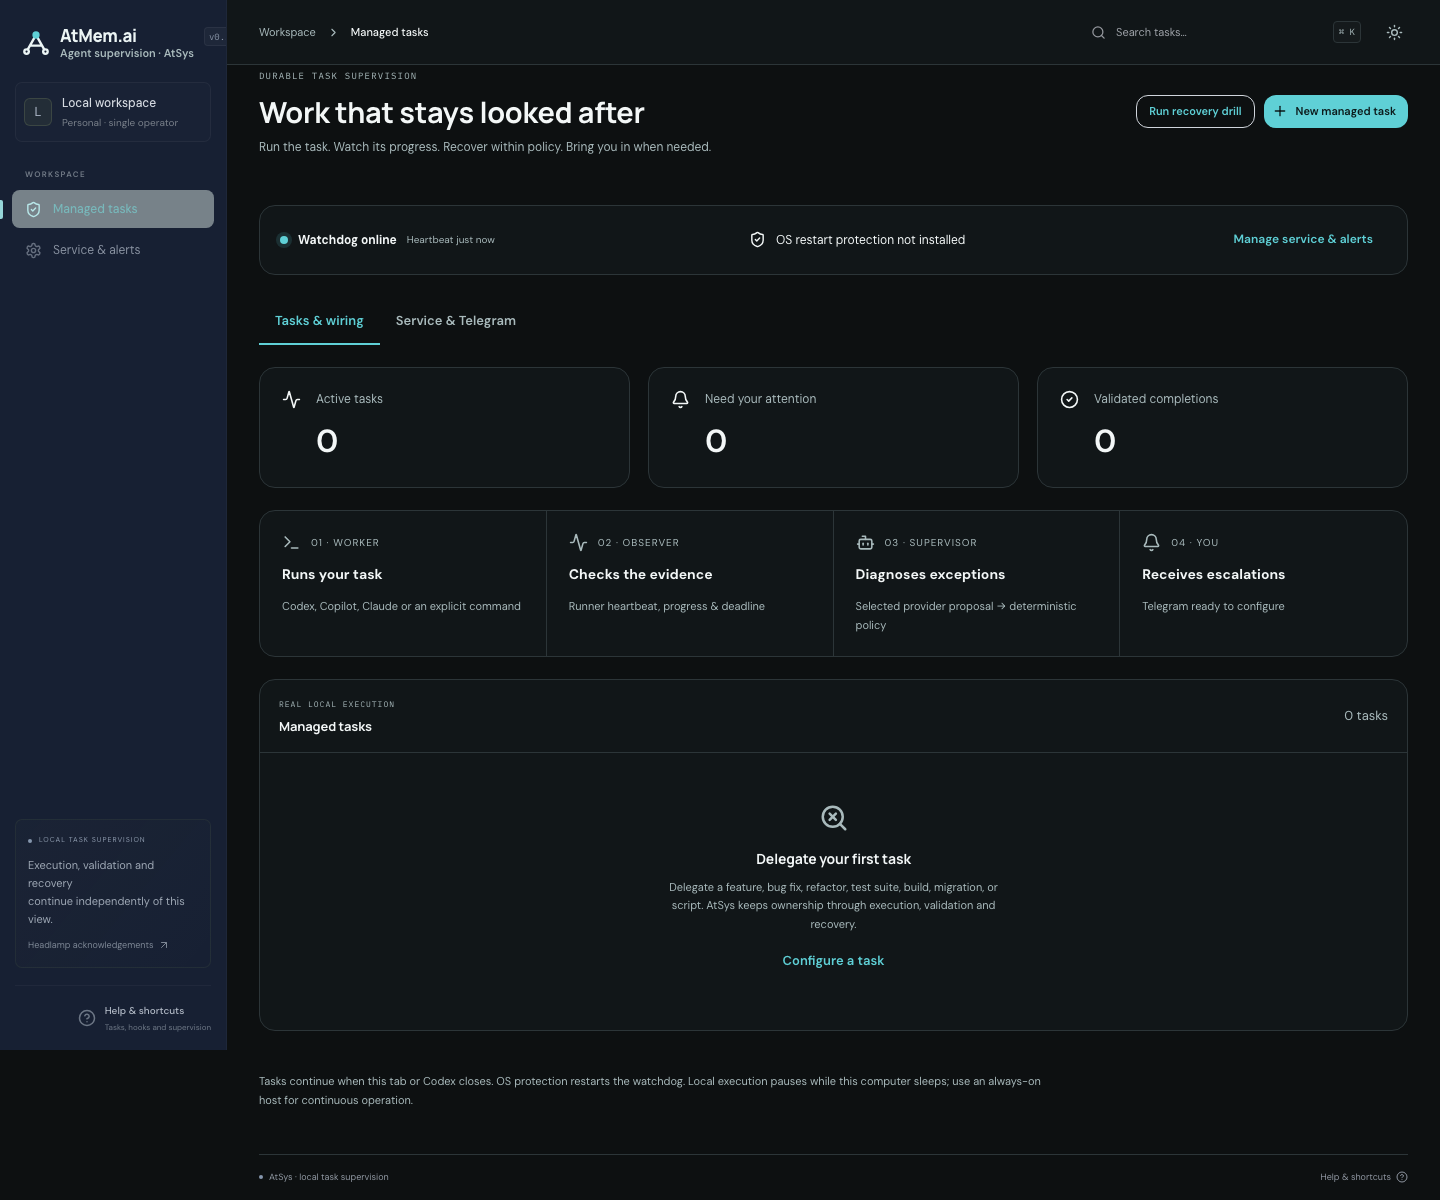
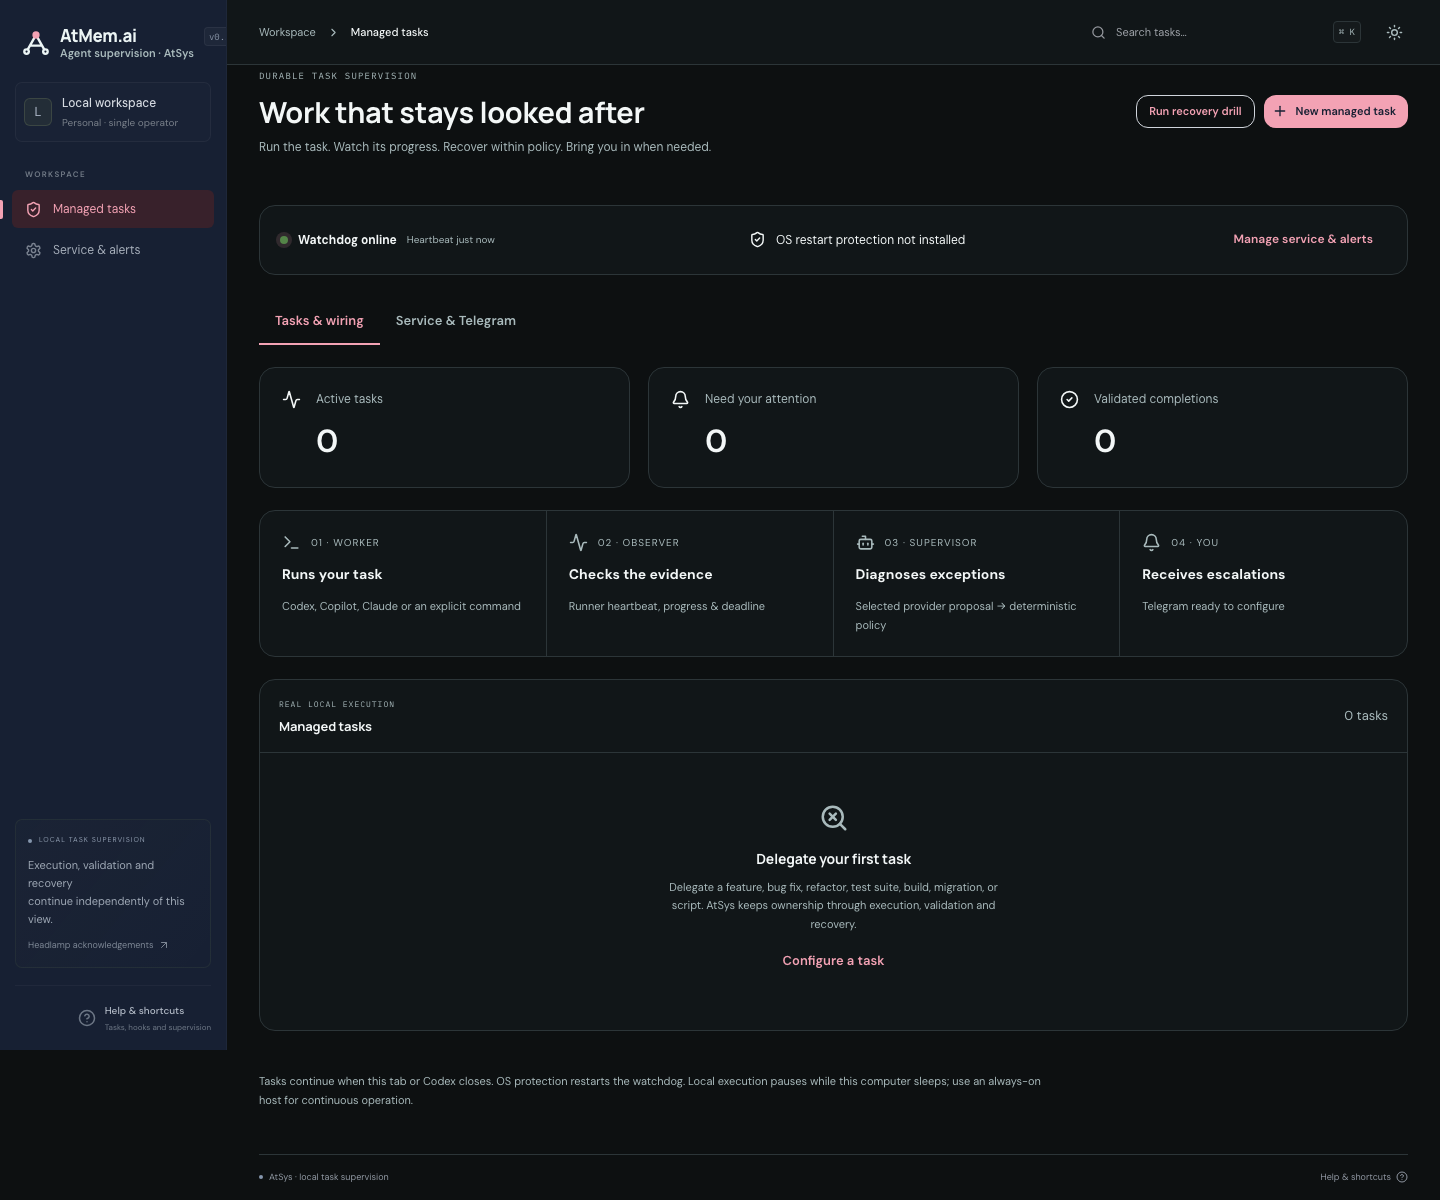
release: AtSys 0.3.4 with consistent pink branding

diff --git a/src/styles.css b/src/styles.css
@@ -13,9 +13,9 @@
   --ink: #172033;
   --muted: #5f6a7c;
   --line: #e1e7ef;
-  --subtle: #f2f8f6;
-  --accent: #1f777c;
-  --green: #1f777c;
+  --subtle: #fdf4f7;
+  --accent: #8b3650;
+  --green: #8b3650;
   --sidebar: #172033;
   --shadow: 0 1px 2px rgba(23, 32, 51, 0.04), 0 8px 24px rgba(23, 32, 51, 0.05);
   --mono: 'IBM Plex Mono', ui-monospace, SFMono-Regular, monospace;
@@ -27,8 +27,8 @@
   --muted: #a9babc;
   --line: #2c3538;
   --subtle: #151a1c;
-  --accent: #5fd0d6;
-  --green: #5fd0d6;
+  --accent: #f3a2b4;
+  --green: #f3a2b4;
   --shadow: none;
   color-scheme: dark;
 }
@@ -297,12 +297,12 @@ select option {
 }
 .nav-group a:hover,
 .settings-link:hover {
-  background: #ffffff06;
-  color: #e7f1f2;
+  background: #38212b;
+  color: #f8bdcc;
 }
 .nav-group a.active {
-  background: #ccdbaa12;
-  color: #b9e8ea;
+  background: #38212b;
+  color: #F3A2B4;
 }
 .nav-group a.active:before {
   content: '';
@@ -310,11 +310,11 @@ select option {
   left: -12px;
   width: 3px;
   height: 19px;
-  background: #95d5d8;
+  background: #F3A2B4;
   border-radius: 0 2px 2px 0;
 }
 .nav-group a.active svg {
-  color: #b8e7e9;
+  color: #F3A2B4;
   opacity: 1;
 }
 .nav-count {
@@ -322,8 +322,8 @@ select option {
   font-family: var(--mono);
   font-size: 9px;
   font-weight: 500;
-  background: #a5be7229;
-  color: #a2d5d8;
+  background: #38212b;
+  color: #F3A2B4;
   padding: 2px 6px;
   border-radius: 4px;
   min-width: 19px;
@@ -4180,7 +4180,7 @@ h4 {
   border-right-color: transparent;
 }
 .ops-dot.healthy {
-  background: var(--accent);
+  background: #548548;
   box-shadow: 0 0 0 4px color-mix(in srgb, var(--accent) 14%, transparent);
 }
 :root:not([data-theme='dark']) {
@@ -4227,7 +4227,7 @@ h4 {
   border-radius: 12px;
 }
 :root:not([data-theme='dark']) .workspace-avatar {
-  background: #e8f5f2;
+  background: #fcecf1;
   color: var(--accent);
   border-color: transparent;
 }
@@ -4247,7 +4247,7 @@ h4 {
 }
 :root:not([data-theme='dark']) .nav-group a.active,
 :root:not([data-theme='dark']) .settings-link.active {
-  background: #e8f5f2;
+  background: #fcecf1;
   color: var(--accent);
   font-weight: 600;
 }
@@ -4258,7 +4258,7 @@ h4 {
   background: var(--accent);
 }
 :root:not([data-theme='dark']) .nav-count {
-  background: #e8f5f2;
+  background: #fcecf1;
   color: var(--accent);
 }
 :root:not([data-theme='dark']) .local-note {
@@ -4273,7 +4273,7 @@ h4 {
   border-top-color: var(--line);
 }
 :root:not([data-theme='dark']) .operator-avatar {
-  background: #e8f5f2;
+  background: #fcecf1;
   color: var(--accent);
   border-color: #ffffff;
 }
@@ -4293,10 +4293,10 @@ h4 {
   color: currentColor;
 }
 .atmem-dot {
-  fill: #5fd0d6;
+  fill: #f3a2b4;
 }
 :root:not([data-theme='dark']) .atmem-dot {
-  fill: #1f777c;
+  fill: #f3a2b4;
 }
 .sidebar .brand > .brand-text:nth-child(2) > span {
   display: block;

diff --git a/tests/e2e/console.spec.ts b/tests/e2e/console.spec.ts
@@ -31,12 +31,18 @@ test('product navigation exposes operational tasks and settings at desktop and m
 });
 test('task search, theme and help controls work and persist', async ({ page }, info) => {
   await page.goto('/');
+  await expect(page.locator('.atmem-dot').first()).toHaveCSS('fill', 'rgb(243, 162, 180)');
   await page.getByLabel('Search managed tasks').fill('no task can have this unusual name');
   await expect(page.getByRole('heading', { name: 'No matching tasks' })).toBeVisible();
   await page.getByLabel('Search managed tasks').fill('');
   await page.getByRole('button', { name: 'Use dark theme' }).click();
   await page.reload();
   await expect(page.getByRole('button', { name: 'Use light theme' })).toBeVisible();
+  await expect(page.locator('.atmem-dot').first()).toHaveCSS('fill', 'rgb(243, 162, 180)');
+  await page.screenshot({
+    path: `test-results/pink-dark-${info.project.name}.png`,
+    fullPage: true,
+  });
   if (info.project.name === 'desktop')
     await page.screenshot({ path: 'docs/screenshots/tasks-dark.png', fullPage: true });
   await page.getByRole('button', { name: 'Use light theme' }).click();

diff --git a/src/theme.ts b/src/theme.ts
@@ -3,7 +3,7 @@ export const makeTheme = (dark: boolean) =>
   createTheme({
     palette: {
       mode: dark ? 'dark' : 'light',
-      primary: { main: dark ? '#5fd0d6' : '#1f777c' },
+      primary: { main: dark ? '#F3A2B4' : '#8b3650' },
       success: { main: '#548548' },
       warning: { main: '#ac7b27' },
       error: { main: '#be5550' },
@@ -20,7 +20,14 @@ export const makeTheme = (dark: boolean) =>
     components: {
       MuiButton: {
         defaultProps: { disableElevation: true },
-        styleOverrides: { root: { borderRadius: 12, minHeight: 36, padding: '7px 14px' } },
+        styleOverrides: {
+          root: { borderRadius: 12, minHeight: 36, padding: '7px 14px' },
+          containedPrimary: {
+            backgroundColor: '#F3A2B4',
+            color: '#172033',
+            '&:hover': { backgroundColor: '#f8bdcc' },
+          },
+        },
       },
       MuiDialog: { styleOverrides: { paper: { backgroundImage: 'none' } } },
       MuiDrawer: { styleOverrides: { paper: { backgroundImage: 'none' } } },

diff --git a/python/atsys/__init__.py b/python/atsys/__init__.py
@@ -1,2 +1,2 @@
 """AtSys: installed command and bundled task supervision runtime."""
-__version__ = "0.3.3"
+__version__ = "0.3.4"

diff --git a/docs/PACKAGING.md b/docs/PACKAGING.md
@@ -4,26 +4,26 @@ The wheel packages this checkout's operational runtime and web dashboard. It pre
 
 ## Capacity fallback
 
-AtSys 0.3.3 includes opt-in capacity fallback and the AtMem.ai dashboard theme. See [release notes](releases/v0.3.3.md) for configuration and limitations.
+AtSys 0.3.4 includes opt-in capacity fallback and the AtMem.ai dashboard theme. See [release notes](releases/v0.3.4.md) for configuration and limitations.
 
 ## Install the published release
 
-The stable provider release is installed with `python -m pip install --upgrade atsys==0.3.3`. See [release notes](releases/v0.3.3.md). Pause requires the upgraded watchdog and newly launched runners; older active runners can still be stopped.
+The stable provider release is installed with `python -m pip install --upgrade atsys==0.3.4`. See [release notes](releases/v0.3.4.md). Pause requires the upgraded watchdog and newly launched runners; older active runners can still be stopped.
 
 ```sh
-python -m pip install --upgrade atsys==0.3.3
+python -m pip install --upgrade atsys==0.3.4
 cd /path/to/your/project
 atsys init
 ```
 
-See [0.3.3 release notes](releases/v0.3.3.md), [PyPI](https://pypi.org/project/atsys/0.3.3/) and [GitHub release assets](https://github.com/aetna000/atsys/releases/tag/v0.3.3). Publication is complete only after the tag workflow and registry checks succeed. The historical [0.2.0 workflow](https://github.com/aetna000/atsys/actions/runs/40031931023) established the Trusted Publishing setup; its recorded artifact hashes apply only to that older release.
+See [0.3.4 release notes](releases/v0.3.4.md), [PyPI](https://pypi.org/project/atsys/0.3.4/) and [GitHub release assets](https://github.com/aetna000/atsys/releases/tag/v0.3.4). Publication is complete only after the tag workflow and registry checks succeed. The historical [0.2.0 workflow](https://github.com/aetna000/atsys/actions/runs/40031931023) established the Trusted Publishing setup; its recorded artifact hashes apply only to that older release.
 
 ## Use a downloaded or locally built release
 
 ```sh
-pip install /absolute/path/to/release/atsys-0.3.3-py3-none-any.whl
+pip install /absolute/path/to/release/atsys-0.3.4-py3-none-any.whl
 # Alternatively, isolate the command with pipx or uv:
-uv tool install /absolute/path/to/release/atsys-0.3.3-py3-none-any.whl
+uv tool install /absolute/path/to/release/atsys-0.3.4-py3-none-any.whl
 cd /path/to/existing/git/repository
 atsys init
 ```
@@ -63,7 +63,7 @@ python -m pip install build twine
 python -m build --outdir release
 python -m twine check release/*
 python -m venv /tmp/atsys-wheel-test
-/tmp/atsys-wheel-test/bin/pip install release/atsys-0.3.3-py3-none-any.whl
+/tmp/atsys-wheel-test/bin/pip install release/atsys-0.3.4-py3-none-any.whl
 /tmp/atsys-wheel-test/bin/python tests/packaging/test_install.py -v
 ```
 

diff --git a/README.md b/README.md
@@ -11,7 +11,7 @@ The benchmark failure motivated this project; benchmarks are not its domain mode
 Install the Python release (Python 3.10+):
 
 ```sh
-python -m pip install --upgrade atsys==0.3.3
+python -m pip install --upgrade atsys==0.3.4
 cd /path/to/your/project
 atsys init
 ```
@@ -26,14 +26,14 @@ The packaged skill handles repository inspection, planning, task configuration, 
 
 `atsys init` installs the project skill, starts the macOS watchdog service and launches the bundled dashboard. `atsys ui` opens it again; `atsys task list` shows managed work. The dashboard starts at **http://127.0.0.1:4310**, choosing another free port if a different instance is there. Always use the reported URL. Installed state lives in `~/.local/share/atsys`, independent of the package and repository. `ATSYS_DATA_DIR` overrides it.
 
-The wheel includes the backend and dashboard; its Python dependency supplies Node 24. No npm or source checkout is required at runtime. Codex CLI and its existing login are needed for Codex workers, supervisors and repairs. See [AtSys 0.3.3 on PyPI](https://pypi.org/project/atsys/0.3.3/), the [GitHub release](https://github.com/aetna000/atsys/releases/tag/v0.3.3) and [release notes](docs/releases/v0.3.3.md). See [packaging, verification and release instructions](docs/PACKAGING.md).
+The wheel includes the backend and dashboard; its Python dependency supplies Node 24. No npm or source checkout is required at runtime. Codex CLI and its existing login are needed for Codex workers, supervisors and repairs. See [AtSys 0.3.4 on PyPI](https://pypi.org/project/atsys/0.3.4/), the [GitHub release](https://github.com/aetna000/atsys/releases/tag/v0.3.4) and [release notes](docs/releases/v0.3.4.md). See [packaging, verification and release instructions](docs/PACKAGING.md).
 
-## New in 0.3.3
+## New in 0.3.4
 
 The dashboard adopts the AtMem.ai Architecture Canvas look: the AtMem.ai mark
 and "Agent supervision" name, softer surfaces and a light sidebar. It opens in
 the light theme; dark mode is a saved choice. Supervision behavior is unchanged.
-See the [release notes](docs/releases/v0.3.3.md).
+See the [release notes](docs/releases/v0.3.4.md).
 
 ## New in 0.3.2
 

diff --git a/docs/releases/v0.3.4.md b/docs/releases/v0.3.4.md
@@ -1,0 +1,14 @@
+# AtSys 0.3.4
+
+The dashboard now matches AtMem.ai’s pink branding. The existing AtMem logo keeps its artwork, with a #F3A2B4 dot in both light and dark mode. Pink navigation, focus and hover accents use darker rose for readable text. Success, warning and error indicators keep their meanings.
+
+## Install or upgrade
+
+```sh
+python -m pip install --upgrade atsys==0.3.4
+atsys --version
+```
+
+Let active work finish, stop services you own, upgrade and reopen the dashboard. Preserve the existing data directory; no schema migration or configuration change is required. This release changes appearance only, not authentication, collection, supervision or provider behavior. Existing platform and runtime requirements still apply.
+
+Node 24 is supplied by the Python package. macOS/Linux supervision is supported; Windows remains unsupported. Do not replace a watchdog while tasks are running.

diff --git a/python/README.md b/python/README.md
@@ -3,7 +3,7 @@
 Installable supervision for general coding work: features, bug fixes, refactors, tests, builds, migrations and scripts.
 
 ```sh
-pip install --upgrade atsys==0.3.3
+pip install --upgrade atsys==0.3.4
 cd /path/to/your/project
 atsys init
 ```
